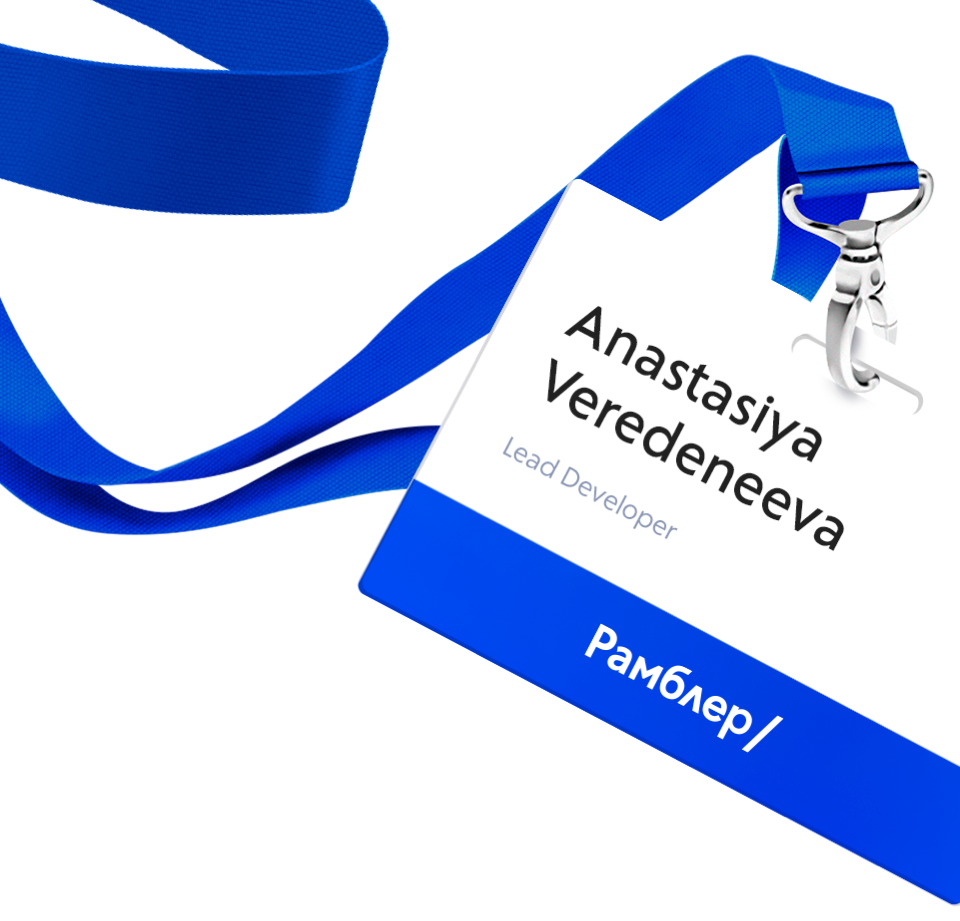
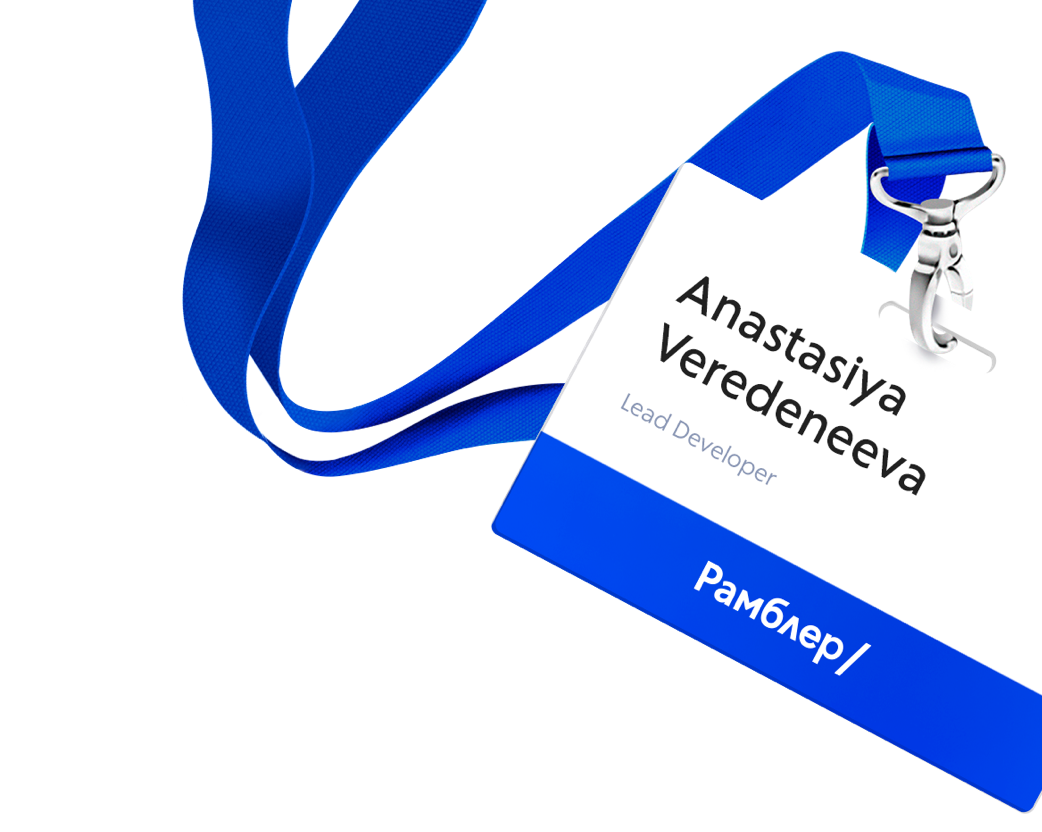
Fix hiring image

diff --git a/docs/pages/index.js b/docs/pages/index.js
@@ -49,7 +49,7 @@ const styles = theme => ({
     backgroundColor: theme.colors.argentumLight,
     backgroundImage: `url(${IntroMobile})`,
     backgroundSize: 'cover',
-    backgroundPosition: '-450px 50%',
+    backgroundPosition: 'center',
     backgroundRepeat: 'no-repeat',
     color: theme.colors.black,
     '@media screen and (min-width: 768px)': {
@@ -160,11 +160,17 @@ const styles = theme => ({
   hiring: {
     backgroundColor: theme.colors.argentumLight,
     backgroundImage: `url(${HiringMobile})`,
-    backgroundSize: '100%',
-    backgroundPosition: 'top',
+    backgroundSize: '350px auto',
+    backgroundPosition: 'right top',
     backgroundRepeat: 'no-repeat',
     color: theme.colors.black,
     padding: '250px 30px 65px',
+    '@media screen and (min-width: 540px)': {
+      backgroundSize: '400px auto'
+    },
+    '@media screen and (min-width: 610px)': {
+      backgroundSize: '450px auto'
+    },
     '@media screen and (min-width: 768px)': {
       padding: '60px 0 64px 100px',
       backgroundImage: `url(${HiringFull})`,
@@ -178,6 +184,9 @@ const styles = theme => ({
     '@media screen and (min-width: 1275px)': {
       paddingLeft: 570,
       backgroundPosition: '-300px 50%'
+    },
+    '& h1': {
+      maxWidth: 430
     },
     '& h1, & p': {
       '@media screen and (min-width: 768px)': {
